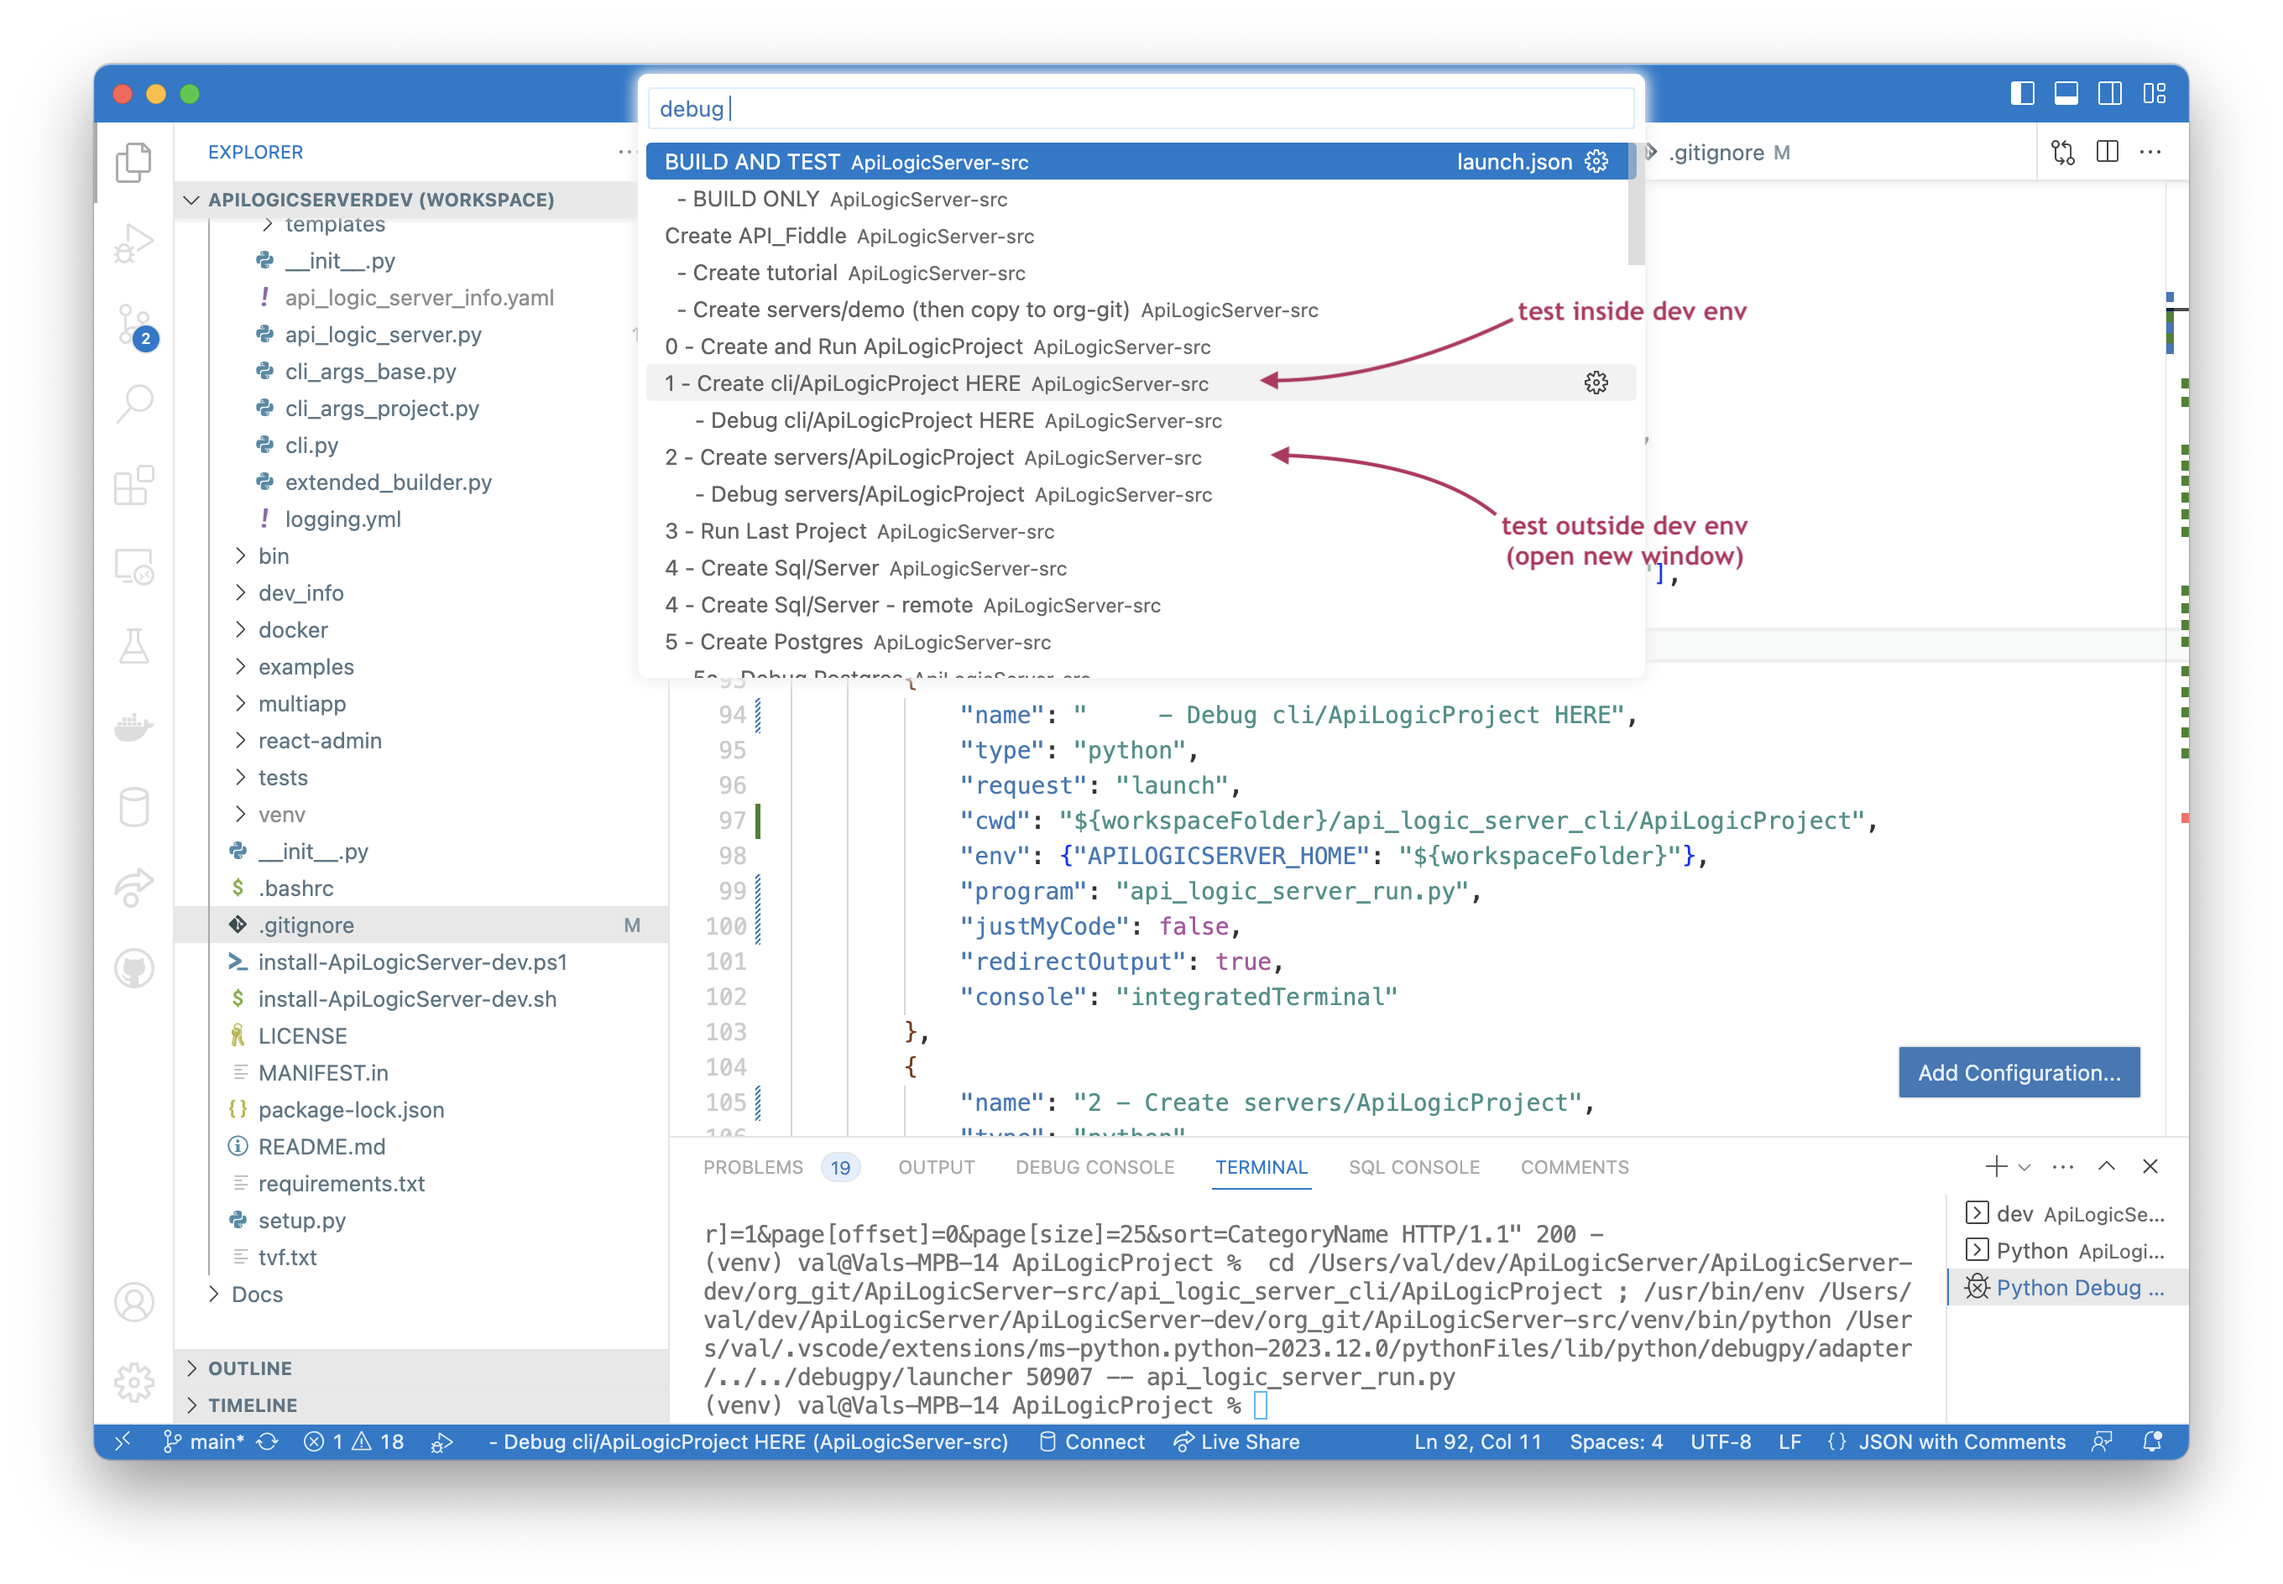
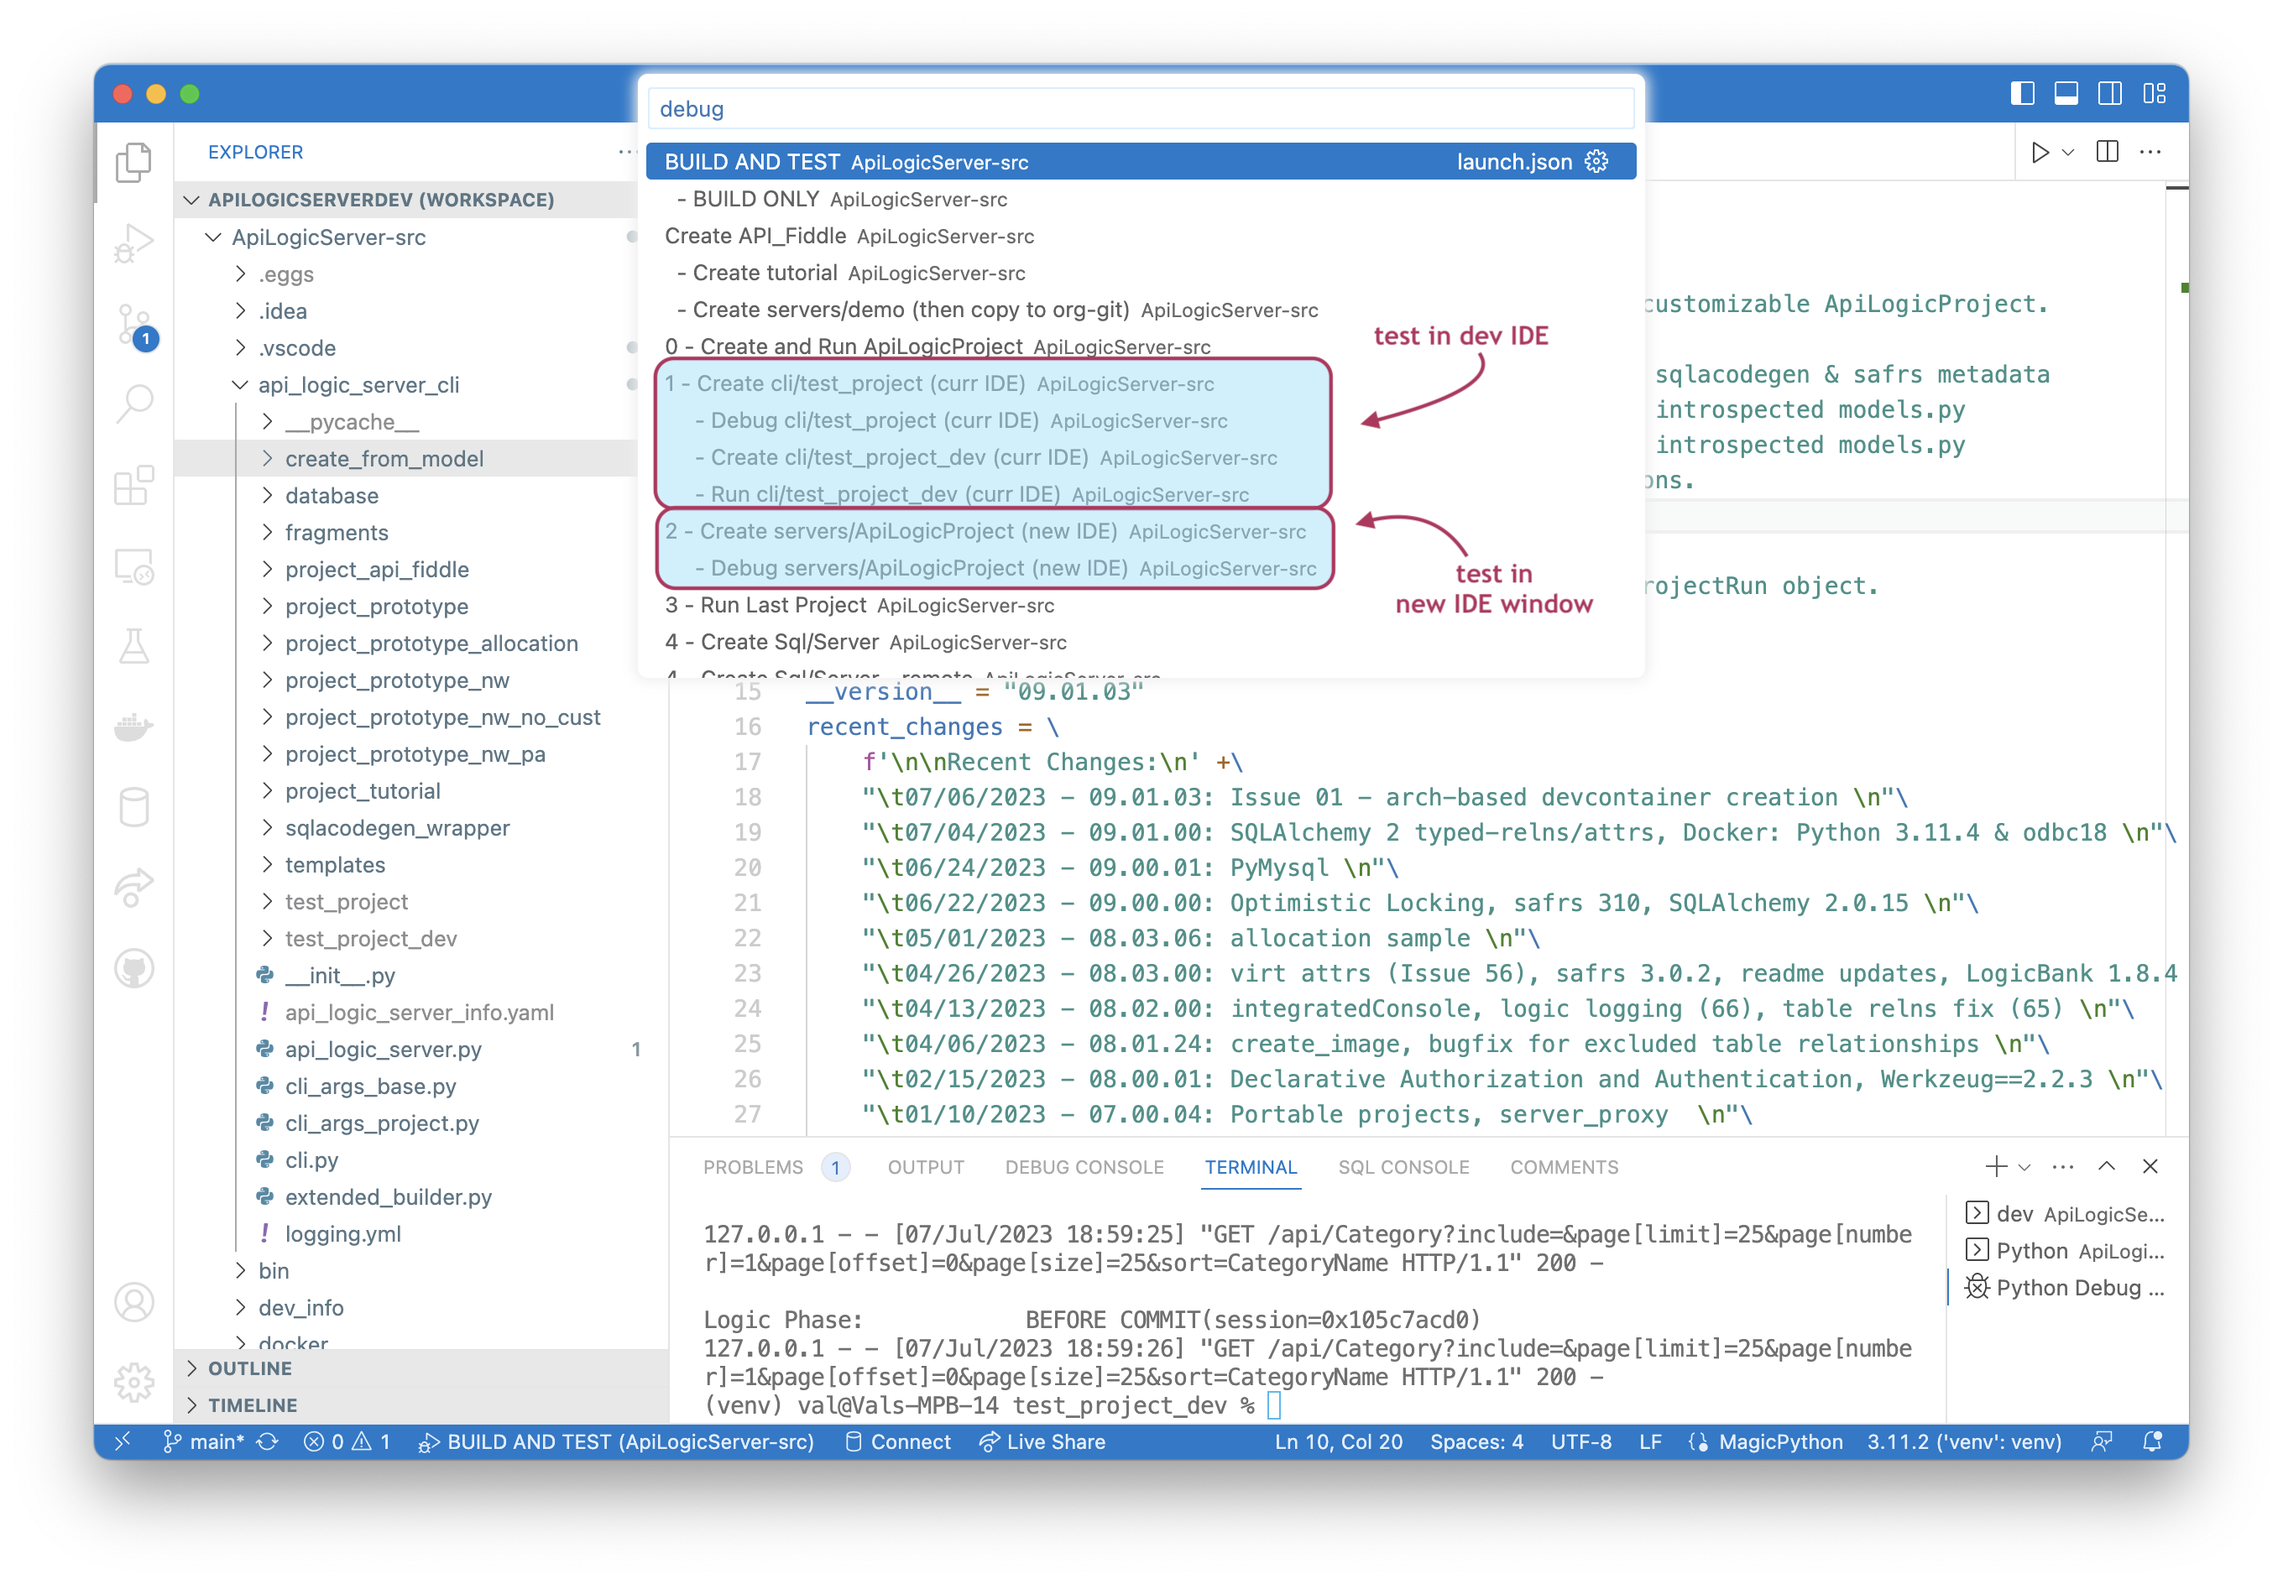
internals - test project creation

diff --git a/docs/Architecture-Internals.md b/docs/Architecture-Internals.md
@@ -75,6 +75,8 @@ Consider using **Run Config #1** to create a project, alter it as desired.  Note
 
 * The created/altered project is **git-ignored**, so is *not* part of any branch
 
+* Note you can create 2 projects, eg, to test base vs. dev
+
 You can then use **Run Config #2** to test it in a new project / ide instance.
 
 1. Run the **behave tests** to ensure existing functionality is not broken
